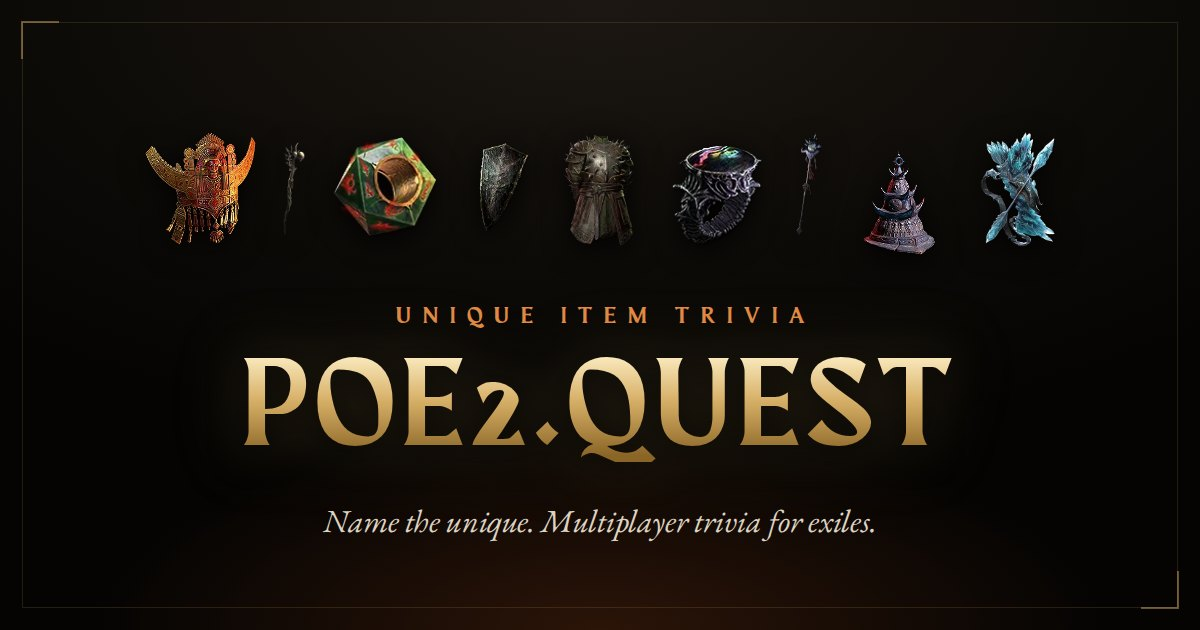
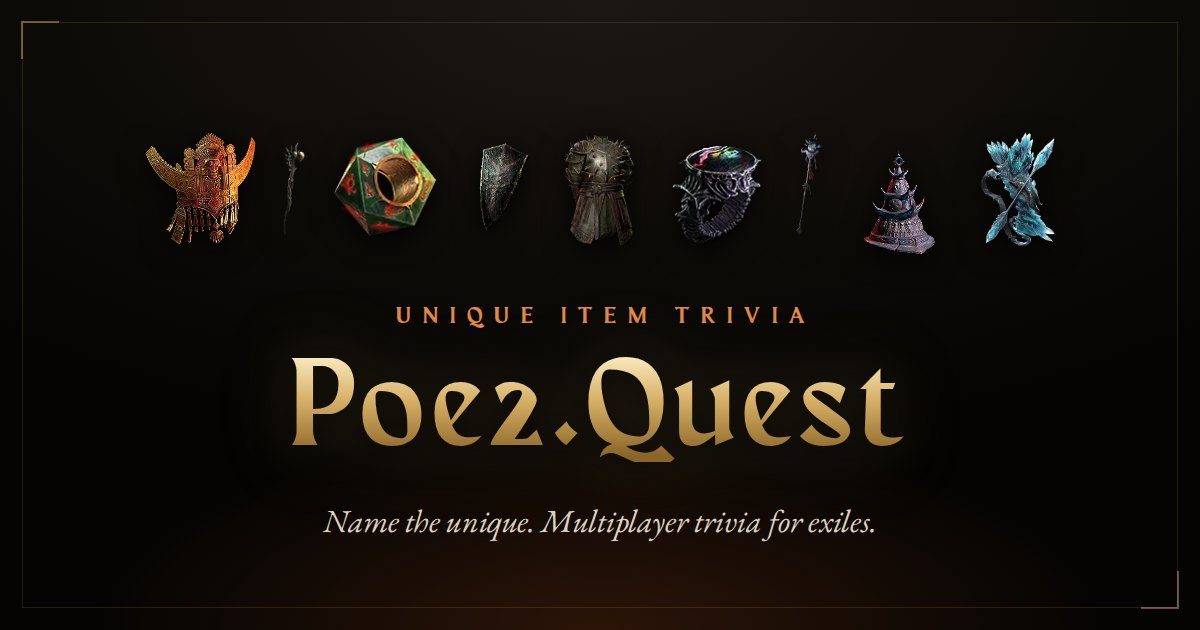
Spell the name Poe2.Quest, enlarge h1/h2, use a colon for "Wrong: −1"
- Poe2.Quest everywhere the name appears (start page title, header
  button, share sheet, page titles, link previews, legal pages, README,
  og.jpg). The header button no longer forces uppercase.
- Every h1 and h2 is about 12% larger, since Maragsâ sets smaller than
  Cinzel at the same size.

Claude-Session: https://claude.ai/code/session_01L7SeJAEPvgnRVsbZYPjWwd

Changed region(s): [[0.185, 0.5429, 0.8017, 0.754]]

diff --git a/impressum.html b/impressum.html
@@ -6,7 +6,7 @@
     <meta name="robots" content="noindex" />
     <link rel="icon" type="image/svg+xml" href="./favicon.svg" />
     <link rel="stylesheet" href="/src/legal/legal.css" />
-    <title>Impressum • POE2.QUEST</title>
+    <title>Impressum • Poe2.Quest</title>
   </head>
   <body>
     <main class="legal">
@@ -27,7 +27,7 @@
 
       <h2>Hinweise</h2>
       <p>
-        POE2.QUEST ist ein kostenloses, inoffizielles Fanprojekt von Minu Wagner („zoe_arcana“). Es
+        Poe2.Quest ist ein kostenloses, inoffizielles Fanprojekt von Minu Wagner („zoe_arcana“). Es
         steht in keiner Verbindung zu Grinding Gear Games und wird von Grinding Gear Games weder unterstützt noch
         gefördert. Path of Exile ist eine Marke von Grinding Gear Games. Die Namen und Bilder der Gegenstände sind
         Eigentum von Grinding Gear Games; die Daten stammen von <a href="https://poe2db.tw/" rel="noreferrer">poe2db.tw</a>.
@@ -57,7 +57,7 @@
         </address>
         <p>Email: <a href="mailto:info@poe2.quest">info@poe2.quest</a></p>
         <p>
-          POE2.QUEST is a free, unofficial fan project by Minu Wagner ("zoe_arcana"). It is not affiliated
+          Poe2.Quest is a free, unofficial fan project by Minu Wagner ("zoe_arcana"). It is not affiliated
           with or endorsed by Grinding Gear Games. Path of Exile is a trademark of Grinding Gear Games. Item names and art
           belong to Grinding Gear Games; the data comes from <a href="https://poe2db.tw/" rel="noreferrer">poe2db.tw</a>.
           Optional tips via PayPal are voluntary; everything in the game stays free.

diff --git a/index.html b/index.html
@@ -10,15 +10,15 @@
     <link rel="canonical" href="https://poe2.quest/" />
     <meta property="og:type" content="website" />
     <meta property="og:url" content="https://poe2.quest/" />
-    <meta property="og:title" content="POE2.QUEST • PoE2 Unique Item Quiz" />
+    <meta property="og:title" content="Poe2.Quest • PoE2 Unique Item Quiz" />
     <meta property="og:description" content="Multiplayer Path of Exile 2 trivia: name the unique or lineage gem from its art. Made by zoe_arcana." />
     <meta property="og:image" content="https://poe2.quest/og.jpg" />
     <meta property="og:image:width" content="1200" />
     <meta property="og:image:height" content="630" />
-    <meta property="og:image:alt" content="POE2.QUEST • a Path of Exile 2 unique item quiz" />
+    <meta property="og:image:alt" content="Poe2.Quest • a Path of Exile 2 unique item quiz" />
     <meta name="twitter:card" content="summary_large_image" />
     <meta name="twitter:image" content="https://poe2.quest/og.jpg" />
-    <title>POE2.QUEST • PoE2 Unique Item Quiz</title>
+    <title>Poe2.Quest • PoE2 Unique Item Quiz</title>
   </head>
   <body>
     <div id="app"></div>

diff --git a/src/components/Home.svelte b/src/components/Home.svelte
@@ -87,7 +87,7 @@
     </div>
     <p class="kicker" in:fly={{ y: -10, duration: 600, delay: 100 }}>Unique Item Trivia</p>
     <h1 use:backdropDropShadow in:fly={{ y: 20, duration: 800, delay: 200 }}>
-      <span class="line"></span>POE2.QUEST<span class="line"></span>
+      <span class="line"></span>Poe2.Quest<span class="line"></span>
     </h1>
     <p class="tagline" in:fade={{ duration: 800, delay: 500 }}>
       Name the unique. {total} uniques and lineage gems. Can you tell them apart?
@@ -249,7 +249,7 @@
     gap: 1.2rem;
     justify-content: center;
     font-family: var(--font-title);
-    font-size: clamp(2.6rem, 8vw, 5rem);
+    font-size: clamp(2.9rem, 9vw, 5.6rem);
     font-weight: 900;
     line-height: 1;
     letter-spacing: 0.06em;
@@ -299,7 +299,7 @@
     background: rgba(0, 0, 0, 0.25);
   }
   .mode h2 {
-    font-size: 0.95rem;
+    font-size: 1.06rem;
     color: var(--gold-hi);
     text-transform: uppercase;
     letter-spacing: 0.14em;

diff --git a/datenschutz.html b/datenschutz.html
@@ -6,7 +6,7 @@
     <meta name="robots" content="noindex" />
     <link rel="icon" type="image/svg+xml" href="./favicon.svg" />
     <link rel="stylesheet" href="/src/legal/legal.css" />
-    <title>Datenschutz • POE2.QUEST</title>
+    <title>Datenschutz • Poe2.Quest</title>
   </head>
   <body>
     <main class="legal">
@@ -25,7 +25,7 @@
 
       <h2>2. Überblick</h2>
       <p>
-        POE2.QUEST ist ein Browserspiel ohne eigenen Server, ohne Benutzerkonten, ohne Cookies und ohne Tracking oder
+        Poe2.Quest ist ein Browserspiel ohne eigenen Server, ohne Benutzerkonten, ohne Cookies und ohne Tracking oder
         Analyse-Dienste. Schriftarten und Bilder werden von dieser Website selbst ausgeliefert, nicht von Drittanbietern.
         Spielstände werden nicht zentral gespeichert: Das Spiel läuft im Browser der Person, die einen Raum eröffnet
         („Host“), und die Geräte der Mitspielenden verbinden sich direkt miteinander.

diff --git a/src/components/Lobby.svelte b/src/components/Lobby.svelte
@@ -50,7 +50,7 @@
   async function copy() {
     try {
       if (navigator.share && matchMedia('(pointer: coarse)').matches) {
-        await navigator.share({ title: 'POE2.QUEST', text: `Join my PoE2 trivia room ${session.code}`, url: inviteLink });
+        await navigator.share({ title: 'Poe2.Quest', text: `Join my PoE2 trivia room ${session.code}`, url: inviteLink });
       } else {
         await navigator.clipboard.writeText(inviteLink);
         copied = true;
@@ -472,7 +472,7 @@
     border-bottom: 1px solid var(--line);
   }
   .panel h2 {
-    font-size: 1rem;
+    font-size: 1.12rem;
     text-transform: uppercase;
     letter-spacing: 0.18em;
     color: var(--gold-hi);

diff --git a/src/App.svelte b/src/App.svelte
@@ -46,7 +46,7 @@
     <header in:fade={{ duration: 300 }}>
       <button class="brand" onclick={() => (confirmLeave = true)} title="Leave game">
         <span class="brand-mark">◆</span>
-        <span>POE2.QUEST</span>
+        <span>Poe2.Quest</span>
       </button>
       <div class="meta">
         {#if gs && screen === 'game'}
@@ -195,7 +195,6 @@
     font-family: var(--font-display);
     font-weight: 900;
     letter-spacing: 0.14em;
-    text-transform: uppercase;
     font-size: 0.9rem;
     color: var(--gold);
     padding: 0.25rem 0;

diff --git a/src/components/Game.svelte b/src/components/Game.svelte
@@ -172,7 +172,7 @@
     margin: 0.6rem 0 1.1rem;
   }
   .banner h2 {
-    font-size: clamp(1.5rem, 4.5vw, 2.4rem);
+    font-size: clamp(1.7rem, 5vw, 2.7rem);
     font-weight: 900;
     color: var(--gold-hi);
     text-shadow:
@@ -292,7 +292,7 @@
     color: #ff9c86;
   }
   .dm-intro h1 {
-    font-size: clamp(2.8rem, 12vw, 6rem);
+    font-size: clamp(3.1rem, 13.5vw, 6.7rem);
     font-weight: 900;
     letter-spacing: 0.08em;
     background: linear-gradient(180deg, #ffe0d4 10%, #ff6a45 55%, #7a1408 95%);

diff --git a/src/components/QuestionView.svelte b/src/components/QuestionView.svelte
@@ -163,7 +163,7 @@
   {:else if session.spectating}
     <p class="spectate muted">You're watching. You'll play in the next game.</p>
   {:else if race && myMiss}
-    <p class="spectate out">Wrong; −1. You're out until the next question.</p>
+    <p class="spectate out">Wrong: −1. You're out until the next question.</p>
   {:else if race}
     <p class="spectate muted">First correct answer wins. Wrong costs a point! Press 1–{count}.</p>
   {:else if !mine}

diff --git a/src/legal/legal.css b/src/legal/legal.css
@@ -28,12 +28,12 @@ body {
   color: var(--gold-hi);
 }
 .legal h1 {
-  font-size: clamp(1.5rem, 6vw, 2.4rem);
+  font-size: clamp(1.7rem, 6.7vw, 2.7rem);
   color: var(--gold-hi);
   margin-bottom: 0.3rem;
 }
 .legal h2 {
-  font-size: 1.15rem;
+  font-size: 1.3rem;
   color: var(--gold-hi);
   margin: 2rem 0 0.6rem;
   letter-spacing: 0.06em;

diff --git a/src/components/GameOver.svelte b/src/components/GameOver.svelte
@@ -188,7 +188,7 @@
     animation: spin 30s linear infinite;
   }
   h1 {
-    font-size: clamp(2rem, 6vw, 3.4rem);
+    font-size: clamp(2.25rem, 6.7vw, 3.8rem);
     font-weight: 900;
     background: linear-gradient(180deg, #fff1c9 10%, #d7b068 55%, #8b6526);
     -webkit-background-clip: text;

diff --git a/src/components/OpenRooms.svelte b/src/components/OpenRooms.svelte
@@ -154,7 +154,7 @@
     margin-bottom: 0.7rem;
   }
   h2 {
-    font-size: 0.9rem;
+    font-size: 1rem;
     text-transform: uppercase;
     letter-spacing: 0.16em;
     color: var(--gold-hi);

diff --git a/README.md b/README.md
@@ -1,4 +1,4 @@
-# POE2.QUEST • PoE2 unique item quiz
+# Poe2.Quest • PoE2 unique item quiz
 
 **Play at [poe2.quest](https://poe2.quest/)** · made by zoe_arcana · [support the project](https://paypal.me/minuW)
 
